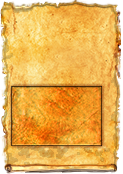
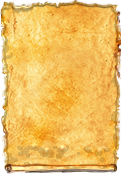
Peggination button

Changed region(s): [[0.0732, 0.4598, 0.8537, 0.8621]]

diff --git a/Crafting.cpp b/Crafting.cpp
@@ -26,7 +26,11 @@ Crafting::Crafting(void)
 
 	activeRecipeIndex = -1;
 	craftingListPage = 0;
-	craftingListEntriesPerPage = 16;
+	craftingListEntriesPerPage = 15;
+
+	pagginationXButtonLeft = 25;
+	pagginationXButtonRight = 110;
+	pagginationYButton = 350;
 	
 	recipes.push_back(new CraftingRecipeTest());
 	recipes.push_back(new CraftingRecipeTest());
@@ -56,6 +60,36 @@ Crafting::Crafting(void)
 	recipes.push_back(new CraftingRecipeTest());
 	recipes.push_back(new CraftingRecipeTest());
 	recipes.push_back(new CraftingRecipeTest());
+	recipes.push_back(new CraftingRecipeTest());
+	recipes.push_back(new CraftingRecipeTest());
+	recipes.push_back(new CraftingRecipeTest());
+	recipes.push_back(new CraftingRecipeTest());
+	recipes.push_back(new CraftingRecipeTest());
+	recipes.push_back(new CraftingRecipeTest());
+	recipes.push_back(new CraftingRecipeTest());
+	recipes.push_back(new CraftingRecipeTest());
+	recipes.push_back(new CraftingRecipeTest());
+	recipes.push_back(new CraftingRecipeTest());
+	recipes.push_back(new CraftingRecipeTest());
+	recipes.push_back(new CraftingRecipeTest());
+	recipes.push_back(new CraftingRecipeTest());
+	recipes.push_back(new CraftingRecipeTest());
+	recipes.push_back(new CraftingRecipeTest());
+	recipes.push_back(new CraftingRecipeTest());
+	recipes.push_back(new CraftingRecipeTest());
+	recipes.push_back(new CraftingRecipeTest());
+	recipes.push_back(new CraftingRecipeTest());
+	recipes.push_back(new CraftingRecipeTest());
+	recipes.push_back(new CraftingRecipeTest());
+	recipes.push_back(new CraftingRecipeTest());
+	recipes.push_back(new CraftingRecipeTest());
+	recipes.push_back(new CraftingRecipeTest());
+	recipes.push_back(new CraftingRecipeTest());
+	recipes.push_back(new CraftingRecipeTest());
+	recipes.push_back(new CraftingRecipeTest());
+	recipes.push_back(new CraftingRecipeTest());
+
+	craftingListPages = recipes.size() / craftingListEntriesPerPage;
 }
 
 
@@ -63,6 +97,8 @@ Crafting::~Crafting(void)
 {
 	
 }
+
+
 
 void Crafting::draw()
 {
@@ -78,23 +114,56 @@ void Crafting::draw()
 	{
 		recipes[activeRecipeIndex]->drawActive(craftingX+activeOffsetX, craftingY+activeOffsetY);
 	}
+
+	if (craftingListPage > 0)
+	{
+		apply_surface(craftingX+pagginationXButtonLeft, craftingY+pagginationYButton, load_image("CraftingGUI/left.jpg"), screen);
+	}
+
+	if (craftingListPage < craftingListPages)
+	{
+		apply_surface(craftingX+pagginationXButtonRight, craftingY+pagginationYButton, load_image("CraftingGUI/right.jpg"), screen);
+	}
+
+	SDL_Color color = {0,0,0};
+	apply_font(craftingX+pagginationXButtonLeft+35, craftingY+pagginationYButton, screen, load_font("arial.ttf", 15), to_string(craftingListPage) + "/" + to_string(craftingListPages), color);
 }
 
 void Crafting::onMouseDown()
 {
-	int xRelativeToList = mouseX - craftingX - listOffsetX;
-	int yRelativeToList = mouseY - craftingY - listOffsetY;
+	int xRelativeTo = mouseX - craftingX - listOffsetX;
+	int yRelativeTo = mouseY - craftingY - listOffsetY;
 
-	if (xRelativeToList < 0 || xRelativeToList > craftingRecipeWidth
-		|| yRelativeToList < 0 || yRelativeToList > craftingListEntriesPerPage*craftingRecipeHeight)
+	if (xRelativeTo < 0 || xRelativeTo > craftingRecipeWidth
+		|| yRelativeTo < 0 || yRelativeTo > craftingListEntriesPerPage*craftingRecipeHeight)
 	{
-		int xRelativeToCraftingButton = mouseX - craftingX - activeOffsetX - craftingButtonOffsetX;
-		int yRelativeToCraftingButton = mouseY - craftingY - activeOffsetY - craftingButtonOffsetY;
+		Rect coliderRect;
+		coliderRect.x = craftingX+pagginationXButtonLeft;
+		coliderRect.y = craftingY+pagginationYButton;
+		coliderRect.h = 13;
+		coliderRect.w = 13;
+
+
+		if (craftingListPage > 0 && coliderRect.collidesWith(mouseX, mouseY))
+		{
+			craftingListPage--;
+			return;
+		}
+
+		coliderRect.x = craftingX+pagginationXButtonRight;
+		if (craftingListPage < craftingListPages && coliderRect.collidesWith(mouseX, mouseY))
+		{
+			craftingListPage++;
+			return;
+		}
+
+		xRelativeTo = mouseX - craftingX - activeOffsetX - craftingButtonOffsetX;
+		yRelativeTo = mouseY - craftingY - activeOffsetY - craftingButtonOffsetY;
 
 		if (activeRecipeIndex != -1)
 		{
-			if (xRelativeToCraftingButton < 0 || xRelativeToCraftingButton > craftingButtonWidth
-				|| yRelativeToCraftingButton < 0 || yRelativeToCraftingButton > craftingButtonHeight)
+			if (xRelativeTo < 0 || xRelativeTo > craftingButtonWidth
+				|| yRelativeTo < 0 || yRelativeTo > craftingButtonHeight)
 			{
 				return;
 			}
@@ -105,6 +174,5 @@ void Crafting::onMouseDown()
 		return;
 	}
 
-	activeRecipeIndex = (yRelativeToList/craftingRecipeHeight) + craftingListPage*craftingListEntriesPerPage;
-	int x = 123;
+	activeRecipeIndex = (yRelativeTo/craftingRecipeHeight) + craftingListPage*craftingListEntriesPerPage;
 }

diff --git a/CraftingRecipeCopperPick.cpp b/CraftingRecipeCopperPick.cpp
@@ -1,11 +1,39 @@
 #include "CraftingRecipeCopperPick.h"
-
+#include "main.h"
+#include "InventoryCopperPick.h"
 
 CraftingRecipeCopperPick::CraftingRecipeCopperPick(void)
 {
+	name = "Kupferhacke";
+
+	CraftingRecipeRequirement* req;
+
+	req = new CraftingRecipeRequirement;
+	req->name = "Kupfererz";
+	req->amount = 2;
+	requirements.push_back(req);
+
+	req = new CraftingRecipeRequirement;
+	req->name = "Kohle";
+	req->amount = 1;
+	requirements.push_back(req);
 }
 
 
 CraftingRecipeCopperPick::~CraftingRecipeCopperPick(void)
 {
+}
+
+void CraftingRecipeCopperPick::doCraft()
+{
+	if (canBeCrafted())
+	{
+		for (unsigned int i = 0; i < requirements.size(); i++)
+		{
+			world.player.inventory.remove(requirements[i]->name, requirements[i]->amount);	
+			
+		}
+		InventoryCopperPick *inventoryCopperPick = new InventoryCopperPick;
+		world.player.inventory.add(inventoryCopperPick);
+	}
 }

diff --git a/CraftingRecipe.cpp b/CraftingRecipe.cpp
@@ -28,6 +28,21 @@ void CraftingRecipe::drawActive(int x, int y)
 
 	apply_font(x+10, y+20, screen, load_font("arial.ttf", 15), name, color);
 
+	
+
+	for (int i = 0; i < requirements.size(); i++)
+	{
+		if (world.player.inventory.hasObject(requirements[i]->name, requirements[i]->amount))
+		{
+			apply_font(x+10, y+40+(i*20), screen, load_font("arial.ttf", 15), requirements[i]->name + " x " + to_string(requirements[i]->amount), color);
+		}
+		else
+		{
+			apply_font(x+10, y+40+(i*20), screen, load_font("arial.ttf", 15), requirements[i]->name + " x " + to_string(requirements[i]->amount), colorRed);
+		}
+
+	}
+
 	if (canBeCrafted())
 	{
 		apply_font(x+world.player.inventory.crafting->craftingButtonOffsetX, y+world.player.inventory.crafting->craftingButtonOffsetY, screen, load_font("arial.ttf", 15), craftingName, color);

diff --git a/CraftingRecipeCopperPick.h b/CraftingRecipeCopperPick.h
@@ -1,8 +1,13 @@
 #pragma once
-class CraftingRecipeCopperPick
+#include "craftingrecipe.h"
+
+class CraftingRecipeCopperPick :
+	public CraftingRecipe
 {
 public:
 	CraftingRecipeCopperPick(void);
 	~CraftingRecipeCopperPick(void);
+
+	void doCraft();
 };
 
